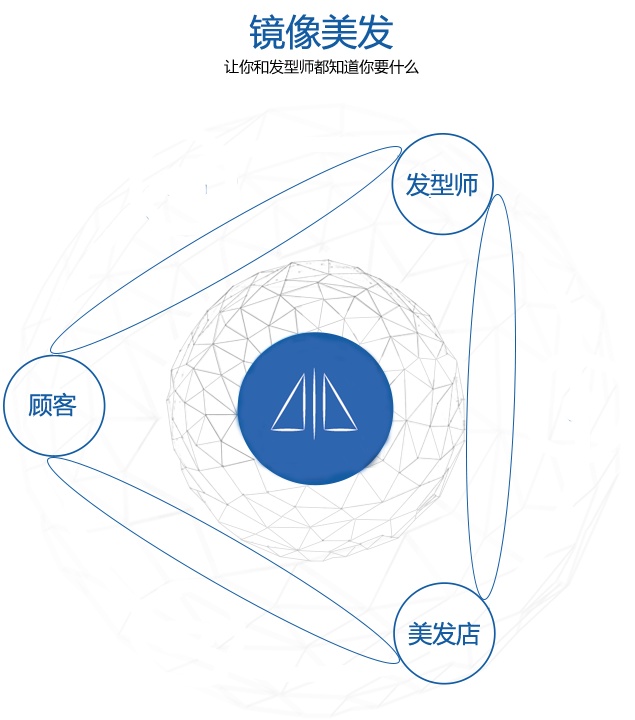
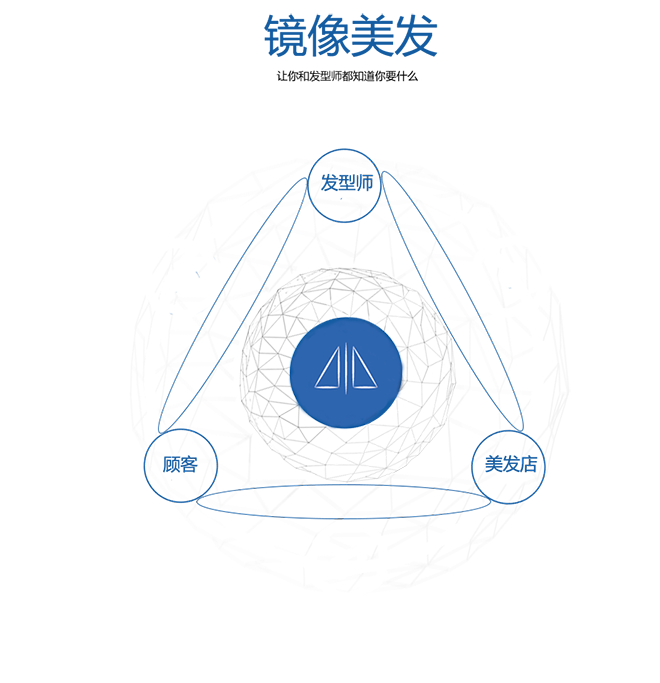
微调一些内容
调整图片和个数

diff --git a/index.html b/index.html
@@ -169,12 +169,7 @@ p {
           <img src="images/2-1.png" />
         </div>
       </div>
-      <div class="section" id="section2">
-        <div class="intro">
-          <img src="images/2-1.png" />
-        </div>
-     </div>
-     <div class="section" id="section3">
+     <div class="section" id="section2">
        <div class="intro"> <img src="images/4-2.png" /> </div>
      </div>
     </div>
